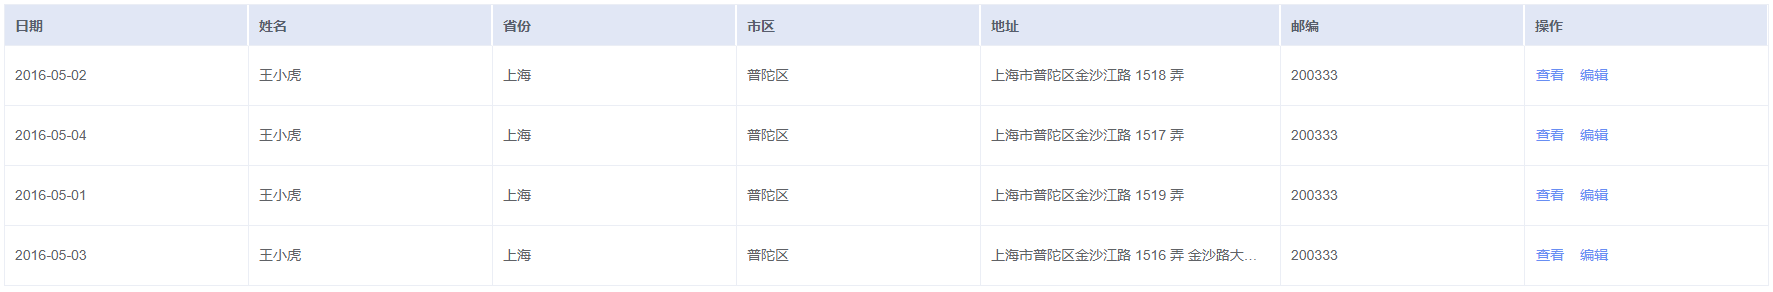
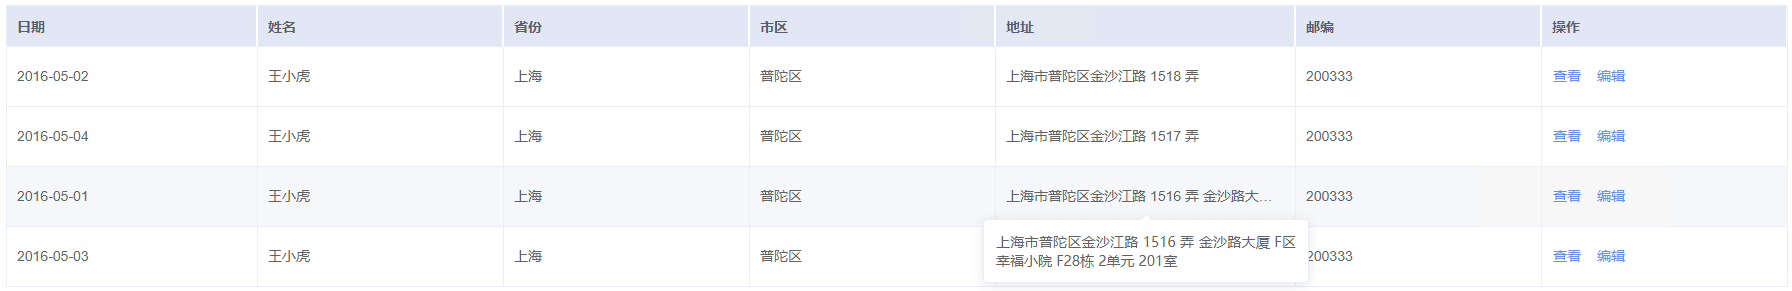
优化文档说明

diff --git a/src/pages/InnerPage.vue b/src/pages/InnerPage.vue
@@ -203,14 +203,14 @@ export default {
         name: '王小虎',
         province: '上海',
         city: '普陀区',
-        address: '上海市普陀区金沙江路 1519 弄',
+        address: '上海市普陀区金沙江路 1516 弄 金沙路大厦 F区 幸福小院 F28栋 2单元 201室',
         zip: 200333
       }, {
         date: '2016-05-03',
         name: '王小虎',
         province: '上海',
         city: '普陀区',
-        address: '上海市普陀区金沙江路 1516 弄 金沙路大厦 F区 幸福小院 F28栋 2单元 201室',
+        address: '上海市普陀区金沙江路 1519 弄',
         zip: 200333
       }],
       dialogVisible: false,

diff --git a/README.md b/README.md
@@ -53,6 +53,7 @@ eg-view提供了如下组件，供EdgeGallery前端开发引用：
 #### 样例
 
 ![样例-静态横幅图片](/src/assets/images/静态横幅.png)
+样例代码详细见[pages/Home.vue](/src/pages/Home.vue)
 #### 参数列表
 |参数|说明|类型|可选值|默认值|
 |:-|:-|:-|:-|:-|
@@ -85,5 +86,6 @@ NA
 
 ![样例-表格数据溢出图片](/src/assets/images/表格有数据.png)
 
+样例代码详细见[pages/InnerPage.vue](/src/pages/InnerPage.vue)
 ### 参数列表
 NA
